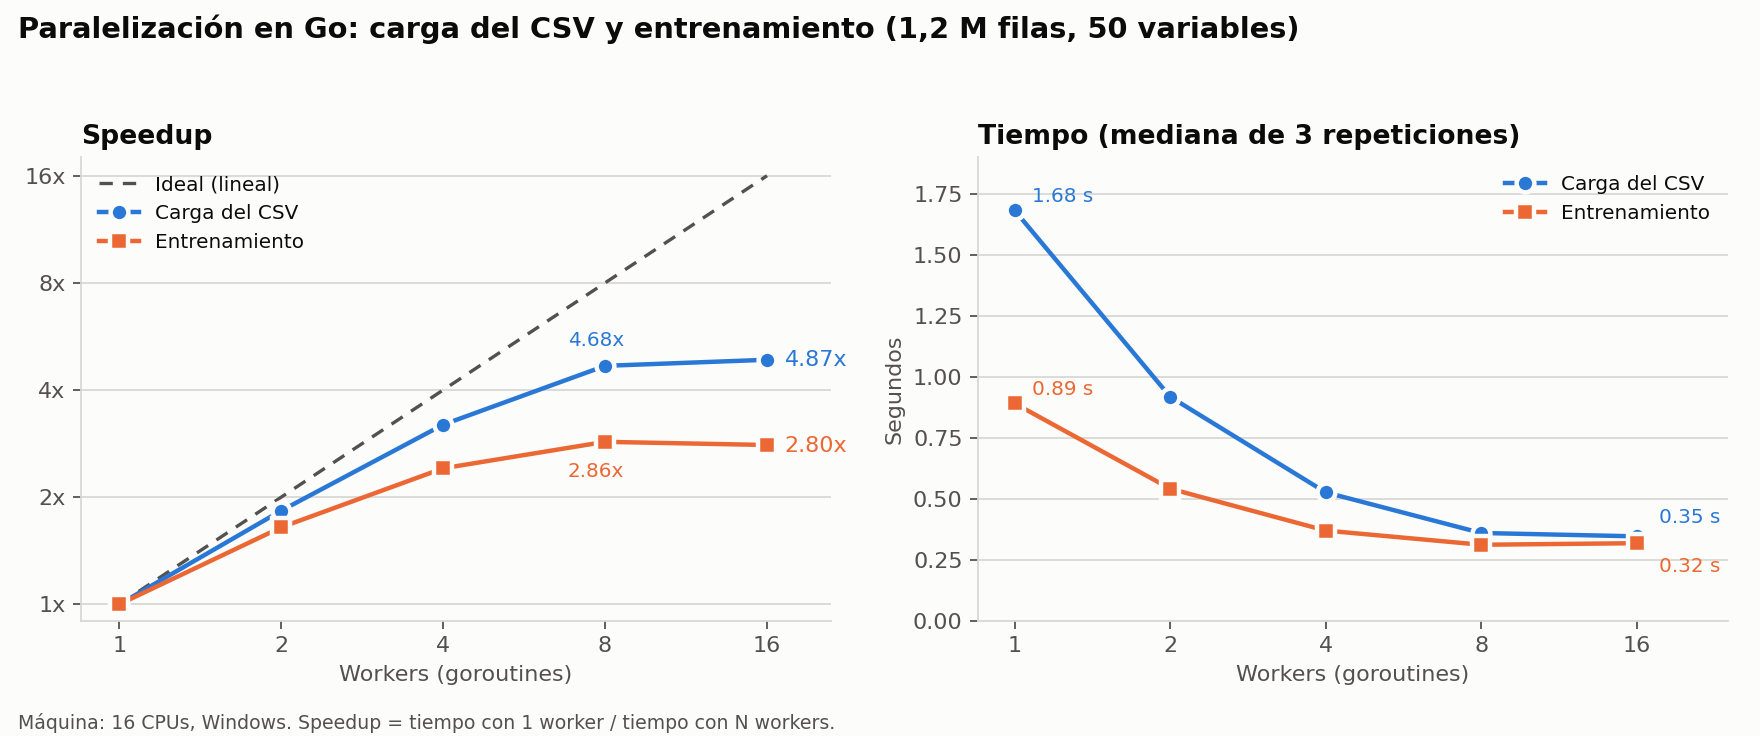
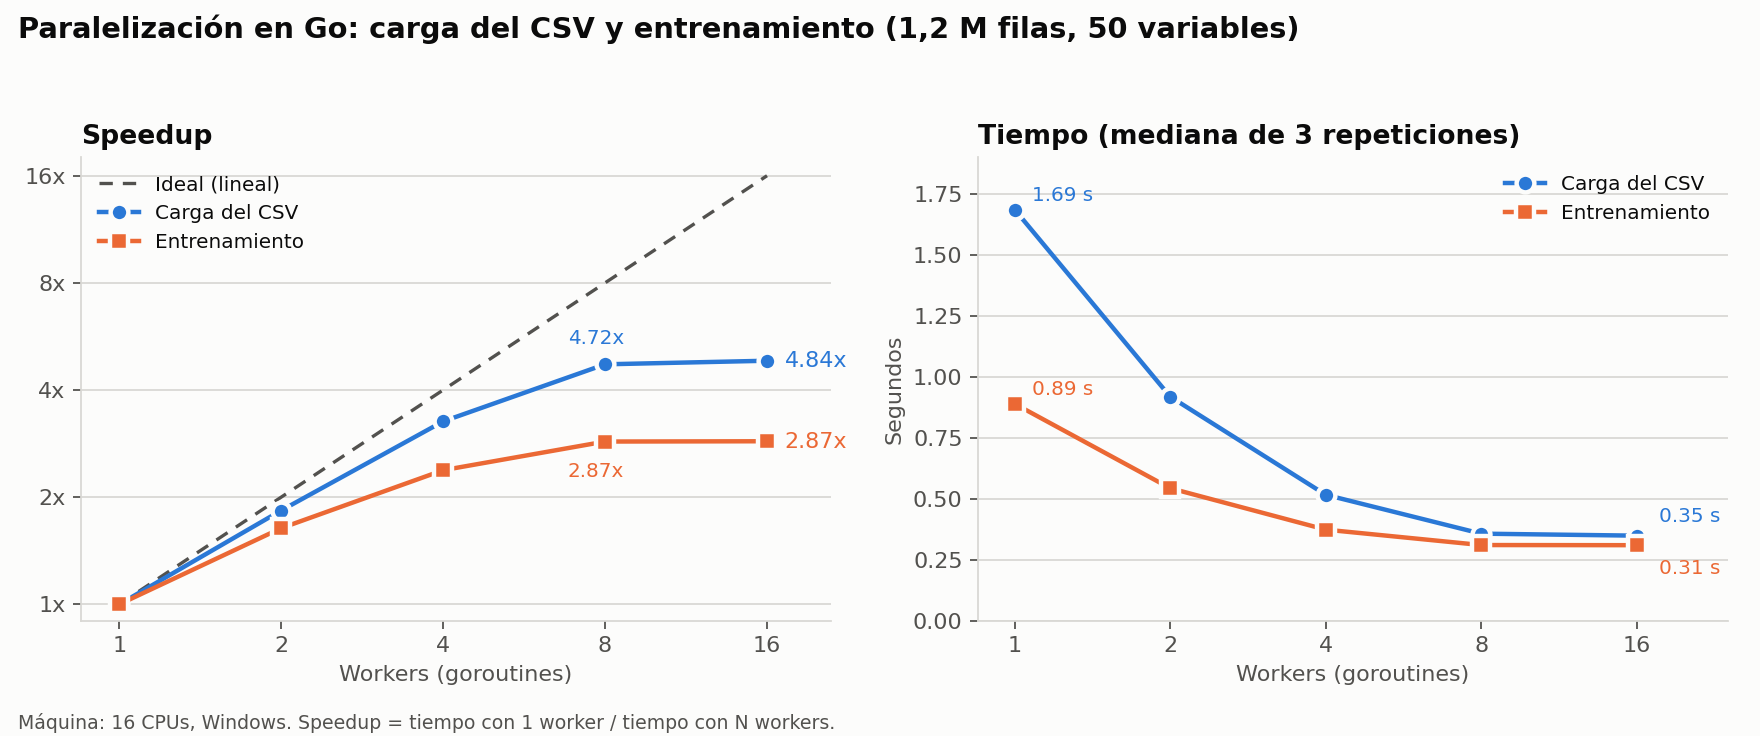
docs: benchmark y resultados re-ejecutados, grafica del benchmark

diff --git a/README.md b/README.md
@@ -107,7 +107,7 @@ go test ./...
 - `benchmark_workers_go.csv` (`cmd/benchmark`): `etapa,workers,segundos,speedup` para las etapas `carga` y `entrenamiento`.
 
 ### Notas importantes
-- Entrenar con 1,2 millones de filas usa unos **1,4 GB** (medido: 1,19 GB de heap y 1,38 GB de memoria del sistema).
+- Entrenar con 1,2 millones de filas usa unos **1,3 GB** (medido: 1,23 GB de heap y 1,32 GB de memoria del sistema).
 - Con datos simulados o de prueba, usa siempre `-nombre prueba` en `cmd/entrenar` y `-salida reports/go/prueba_benchmark.csv` en `cmd/benchmark`: los archivos `reports/go/prueba*` están ignorados por git y así no se suben por error resultados que no son reales.
 - `valid_raw.csv` se divide en dos mitades: la **validación** se usa para la parada temprana y para elegir el umbral, y las **métricas finales** se miden en la mitad de **prueba**, que no se usó para decidir nada.
 - Si el AUC en prueba pasa de 0,95, el programa avisa de una posible fuga de datos.
@@ -151,17 +151,17 @@ Mediana de 3 repeticiones por cantidad de workers. Speedup = tiempo con 1 worker
 
 | Etapa | Workers | Tiempo (s) | Speedup |
 |---|---|---|---|
-| carga | 1 | 1,683 | 1,00x |
-| carga | 2 | 0,918 | 1,83x |
-| carga | 4 | 0,526 | 3,20x |
-| carga | 8 | 0,360 | 4,68x |
-| carga | 16 | 0,346 | 4,87x |
-| entrenamiento | 1 | 0,891 | 1,00x |
-| entrenamiento | 2 | 0,542 | 1,65x |
-| entrenamiento | 4 | 0,370 | 2,41x |
-| entrenamiento | 8 | 0,311 | 2,86x |
-| entrenamiento | 16 | 0,318 | 2,80x |
+| carga | 1 | 1,686 | 1,00x |
+| carga | 2 | 0,919 | 1,84x |
+| carga | 4 | 0,516 | 3,27x |
+| carga | 8 | 0,357 | 4,72x |
+| carga | 16 | 0,349 | 4,84x |
+| entrenamiento | 1 | 0,889 | 1,00x |
+| entrenamiento | 2 | 0,543 | 1,64x |
+| entrenamiento | 4 | 0,373 | 2,38x |
+| entrenamiento | 8 | 0,310 | 2,87x |
+| entrenamiento | 16 | 0,310 | 2,87x |
 
 - La pérdida final del entrenamiento fue la misma con todas las cantidades de workers (diferencia relativa de 5,8e-14), así que el resultado no depende del número de goroutines.
 - El speedup no es lineal por la ley de Amdahl: una parte del trabajo sigue siendo secuencial. En la carga, un solo productor lee el archivo del disco; en el entrenamiento, hay que sumar los gradientes de todos los workers antes de actualizar los pesos.
-- A partir de 8 workers casi no hay mejora (carga 4,68x a 4,87x; entrenamiento 2,86x a 2,80x): la parte secuencial domina y el costo de coordinar más goroutines compensa lo que se gana.
+- A partir de 8 workers casi no hay mejora (carga 4,72x a 4,84x; entrenamiento 2,87x a 2,87x): la parte secuencial domina y el costo de coordinar más goroutines compensa lo que se gana.
